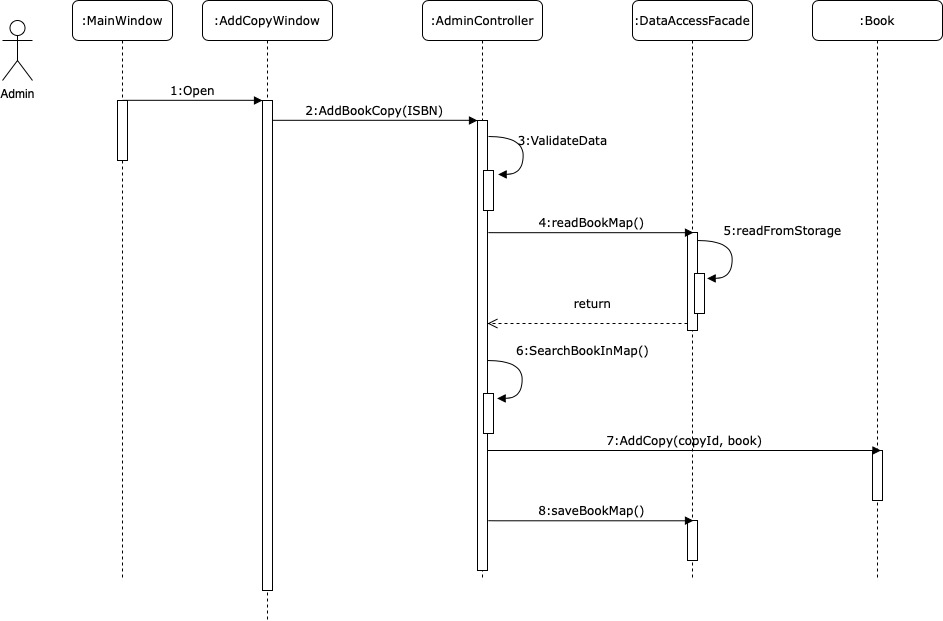
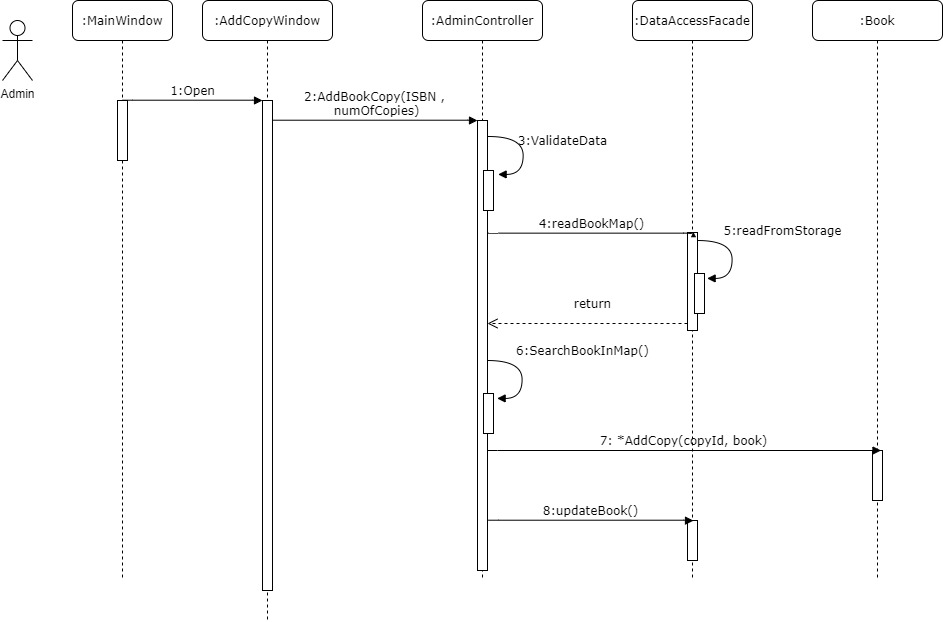
Edit Add Member and Add book copy sequence diagrams

diff --git a/src/business/controllers/impl/AdminController.java b/src/business/controllers/impl/AdminController.java
@@ -14,6 +14,7 @@ import business.LibraryMember;
 import business.controllers.interfaces.AdminControllerInterface;
 import business.customExceptions.BookInvalidDataException;
 import business.customExceptions.BookNotFoundException;
+import business.customExceptions.LibrarySystemException;
 import business.customExceptions.MemberInvalidDataException;
 import business.customExceptions.MemberNotFoundException;
 import dataaccess.DataAccess;
@@ -21,25 +22,27 @@ import dataaccess.DataAccessFacade;
 
 public class AdminController implements AdminControllerInterface {
 
-	public static void main(String[] args) throws MemberInvalidDataException {
+	public static void main(String[] args) throws LibrarySystemException {
 
 		AdminController a = new AdminController();
 		// for test AdminController only
-		System.out.println("test addMember ==> "
-				+ a.addMember("Most", "Moha", "641-472-2558", "e@f.com", "ss", "iowa", "dd", "11"));
+		/*
+		 * System.out.println("test addMember ==> " + a.addMember("Most", "Moha",
+		 * "641-472-2558", "e@f.com", "ss", "iowa", "dd", "11"));
+		 */
 
-		try {
-			a.addBookCopy("28-12331", 3);
-		} catch (BookNotFoundException | BookInvalidDataException e) {
-			// TODO Auto-generated catch block
-			System.out.println(e.getMessage());
-		}
+		EmailSenderController em = new EmailSenderController();
+		em.sendEmail("", "White Cards", "28-1147", "");
+		/*
+		 * try { a.addBookCopy("28-12331", 3); } catch (BookNotFoundException |
+		 * BookInvalidDataException e) { // TODO Auto-generated catch block
+		 * System.out.println(e.getMessage()); }
+		 */
 
 	}
 
-	private void validateMemberData(LibraryMember member) throws MemberInvalidDataException {
-		if (member.getMemberId().isEmpty() || member.getFirstName().isEmpty() || member.getLastName().isEmpty()
-				|| member.getEmail().isEmpty())
+	private void validateMemberData(String firstName, String lastName, String email) throws MemberInvalidDataException {
+		if (firstName.isEmpty() || lastName.isEmpty() || email.isEmpty())
 			throw new MemberInvalidDataException("First Name , Last Name and Email Fields Can not be empty !");
 	}
 
@@ -51,18 +54,22 @@ public class AdminController implements AdminControllerInterface {
 	 */
 	@Override
 	public void addBookCopy(String isbn, int numOfCopies) throws BookNotFoundException, BookInvalidDataException {
+		validateAddCopyData(isbn);
+
 		DataAccess da = new DataAccessFacade();
 		HashMap<String, Book> map = da.readBooksMap();
 		Book book = searchBookInMap(isbn, map);
 
-		if (isbn.isEmpty())
-			throw new BookInvalidDataException("Isbn Field Cannot be empty !");
-		if (book == null)
-			throw new BookNotFoundException("No Book Found With ISBN : " + isbn);
-
 		for (int i = 0; i < numOfCopies; i++)
 			book.addCopy();
+
 		da.updateBook(book);
+	}
+
+	private void validateAddCopyData(String isbn) throws BookInvalidDataException {
+		if (isbn.isEmpty())
+			throw new BookInvalidDataException("Isbn Field Cannot be empty !");
+
 	}
 
 	// Hus3/6/20:: Edit Member
@@ -99,7 +106,7 @@ public class AdminController implements AdminControllerInterface {
 		m.setLastName(lastName);
 		m.setTelephone(telephone);
 		m.setEmail(email);
-		validateMemberData(m);
+		validateMemberData(firstName, lastName, email);
 
 		da.updateMember(m);
 	}
@@ -121,12 +128,14 @@ public class AdminController implements AdminControllerInterface {
 	public LibraryMember addMember(String firstName, String lastName, String telephone, String email, String street,
 			String state, String city, String zip) throws MemberInvalidDataException {
 
-		DataAccess da = new DataAccessFacade();
-		Address address = new Address(street, city, state, zip);
+		validateMemberData(firstName, lastName, email);
 
+		Address address = new Address(street, city, state, zip);
 		LibraryMember member = new LibraryMember(generateMemberId(), firstName, lastName, telephone, address, email);
-		validateMemberData(member);
+
+		DataAccess da = new DataAccessFacade();
 		da.saveNewMember(member);
+
 		return member;
 	}
 
